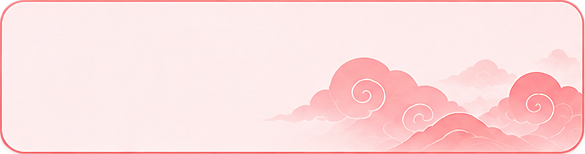
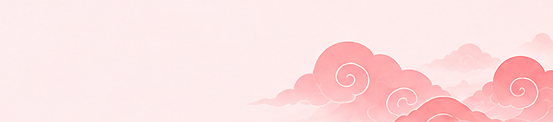
fix(toast): slimmer card, smaller text, and borderless panels
Widen the toast so the title and description each fit on one line, shrink
the type scale and icon for a more compact card, force the container
width past the react-toastify default, and re-crop the panel backgrounds
inside their frame so no vertical border line shows through.

diff --git a/apps/frontend/src/components/ui/toast-card.tsx b/apps/frontend/src/components/ui/toast-card.tsx
@@ -31,7 +31,7 @@ export function ToastCard({ variant, message, title, onClose }: ToastCardProps) 
 
   return (
     <div
-      className="relative flex min-h-[104px] w-full items-center gap-3 overflow-hidden rounded-2xl border border-black/5 px-4 py-3 font-body shadow-[0_10px_28px_rgba(60,40,15,0.16)]"
+      className="relative flex min-h-[72px] w-full items-center gap-3 overflow-hidden rounded-2xl border border-black/5 px-3.5 py-2.5 font-body shadow-[0_10px_28px_rgba(60,40,15,0.16)]"
       style={{ backgroundColor: meta.bg }}
     >
       <img
@@ -44,22 +44,22 @@ export function ToastCard({ variant, message, title, onClose }: ToastCardProps) 
       <img
         alt=""
         aria-hidden
-        className="relative size-12 shrink-0 object-contain drop-shadow-sm"
+        className="relative size-11 shrink-0 object-contain drop-shadow-sm"
         src={toastIconUrl(variant)}
       />
 
       <div className="relative min-w-0 flex-1">
         <p
-          className="font-display text-base leading-snug font-bold"
+          className="truncate pr-20 font-display text-sm leading-tight font-bold"
           style={{ color: meta.titleColor }}
         >
           {title ?? meta.title}
         </p>
-        <p className="mt-0.5 line-clamp-2 text-sm text-[#4a4235]">{message}</p>
+        <p className="mt-0.5 truncate text-[13px] text-[#4a4235]">{message}</p>
       </div>
 
-      <div className="relative flex shrink-0 flex-col items-end gap-1.5 self-start pt-0.5">
-        <span className="text-xs whitespace-nowrap text-[#8a8272]">Vừa xong</span>
+      <div className="absolute top-2.5 right-3.5 flex items-center gap-2">
+        <span className="text-[11px] whitespace-nowrap text-[#8a8272]">Vừa xong</span>
         <button
           aria-label="Đóng thông báo"
           className="text-[#8a8272] transition-colors hover:text-[#4a4235]"

diff --git a/apps/frontend/src/styles.css b/apps/frontend/src/styles.css
@@ -241,11 +241,17 @@
   --toastify-color-success: var(--primary);
   --toastify-color-error: var(--destructive);
   --toastify-font-family: inherit;
-  --toastify-toast-width: 420px;
+}
+
+/* Toast rộng hơn mặc định (320px) để tiêu đề + mô tả nằm gọn 1 dòng, dáng thon. */
+.Toastify__toast-container {
+  width: 480px !important;
+  max-width: 96vw;
 }
 
 /* Toast phong thủy (ToastCard) tự vẽ nền/panel riêng, nên bỏ hết style mặc định của toastify. */
 .Toastify__toast.ec-toast {
+  width: 100%;
   padding: 0;
   min-height: 0;
   background: transparent;
